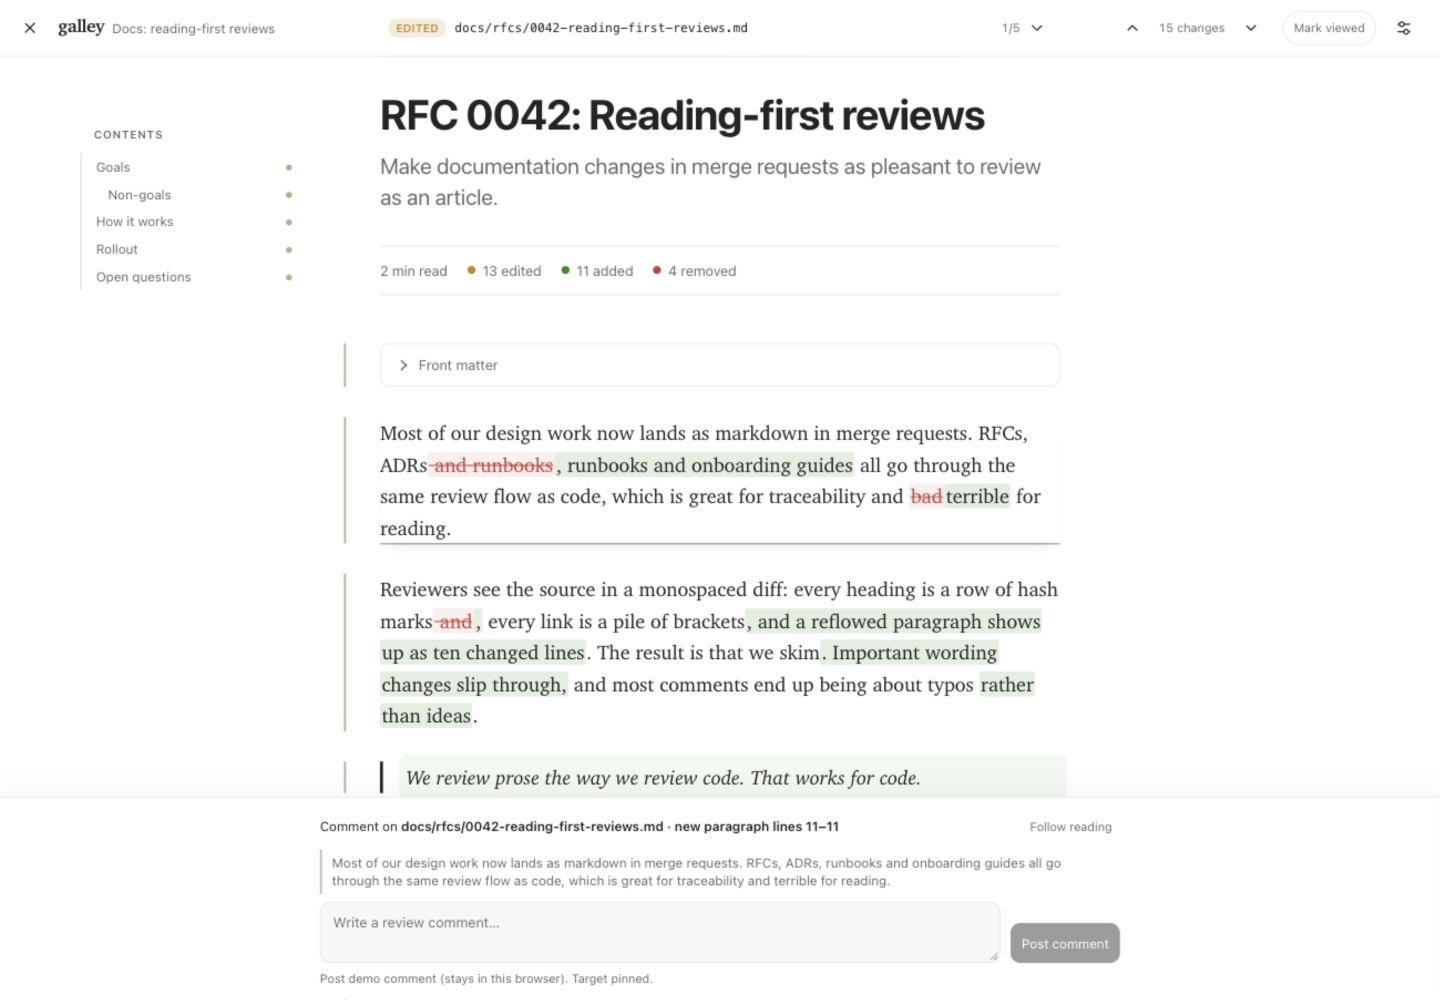
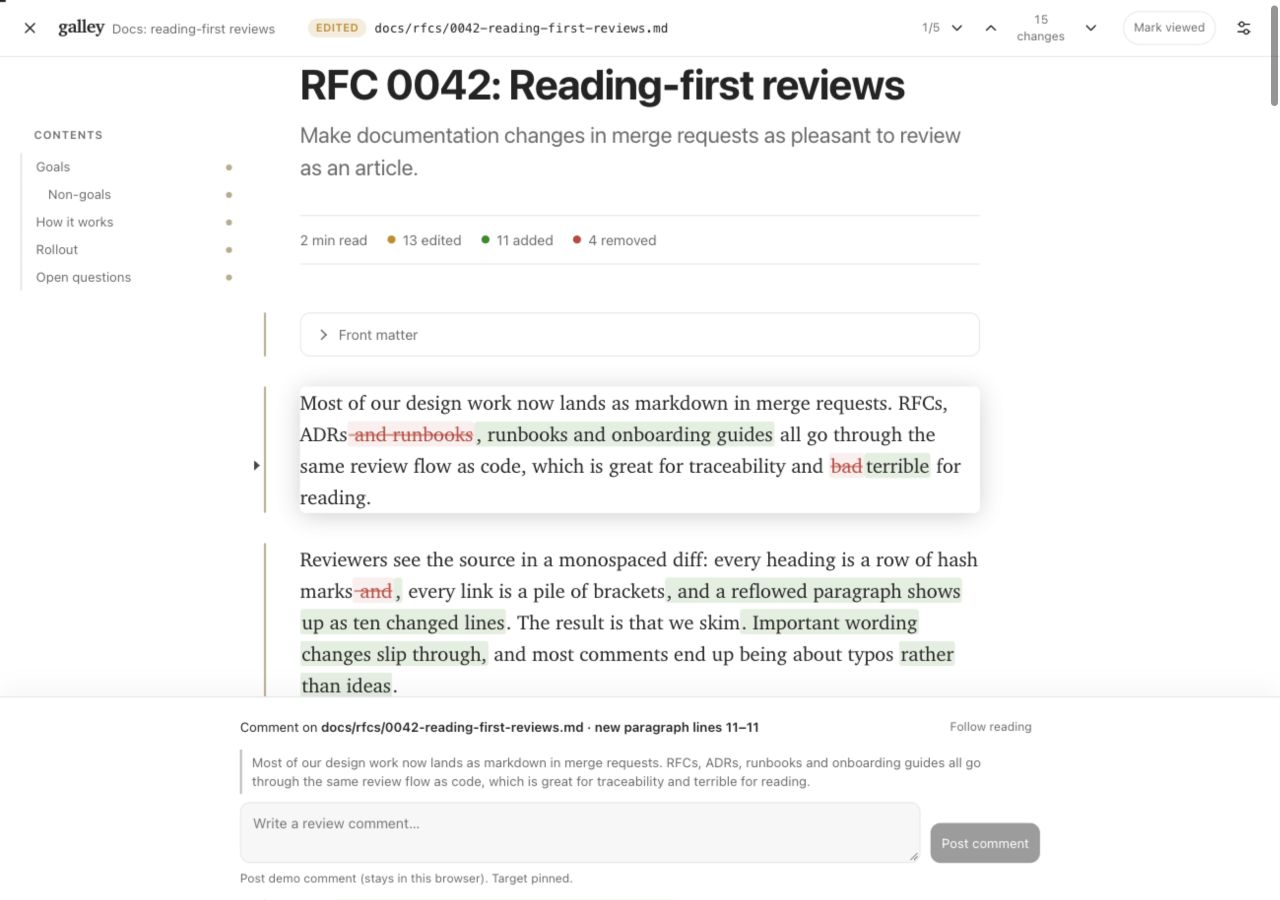
Use soft reading shadows and pin the selected line in the gutter

diff --git a/src/ui/reader.ts b/src/ui/reader.ts
@@ -169,6 +169,8 @@ class Reader {
   private drawerFocus: HTMLElement | null = null;
   private target: CommentTarget | null = null;
   private targetEls: HTMLElement[] = [];
+  private readonly readingMarker = h('div', 'mr-reading-marker');
+  private readingPoint: { element: HTMLElement; fraction: number } | null = null;
   private pinned = false;
   private plan: CommentPlan | null = null;
   private planToken = 0;
@@ -853,14 +855,14 @@ class Reader {
       .filter(({ block }) => block.el.getClientRects().length && block.el.getBoundingClientRect().bottom > 90 && block.el.getBoundingClientRect().top < this.root.clientHeight - this.el.composer.offsetHeight);
     const current = candidates.find(({ block }) => block.el.getBoundingClientRect().top <= line && block.el.getBoundingClientRect().bottom >= line)
       ?? candidates.reduce<typeof candidates[number] | undefined>((best, entry) => !best || Math.abs(entry.block.el.getBoundingClientRect().top - line) < Math.abs(best.block.el.getBoundingClientRect().top - line) ? entry : best, undefined);
-    if (current) this.setTarget(paragraphTarget(current.view.doc, current.block), [current.block.el]);
+    if (current) this.setTarget(paragraphTarget(current.view.doc, current.block), [current.block.el], line);
   }
 
   private captureSelection(event?: MouseEvent): void {
     if (event && !(event.target as Element).closest('.mr-content')) return;
     if (this.submitting || this.textarea.value || (event?.target as Element | undefined)?.closest('.mr-composer')) return;
     const selection = (this.shadow as ShadowRoot & { getSelection?: () => Selection | null }).getSelection?.() ?? document.getSelection();
-    if (selection && !selection.isCollapsed && selection.rangeCount) {
+    if (selection && !selection.isCollapsed && selection.rangeCount && (!event || selection.getRangeAt(0).intersectsNode(event.target as Node))) {
       const range = selection.getRangeAt(0);
       const view = this.views.find((view) => view.section.contains(range.startContainer) && view.section.contains(range.endContainer));
       const target = view?.rendered && selectionTarget(view.doc, view.rendered.blocks, range);
@@ -871,7 +873,9 @@ class Reader {
         return;
       }
       this.pinned = true;
-      this.setTarget(target, view.rendered.blocks.filter((block) => range.intersectsNode(block.el)).map((block) => block.el));
+      const elements = view.rendered.blocks.filter((block) => range.intersectsNode(block.el)).map((block) => block.el);
+      const rect = [...range.getClientRects()].find((rect) => rect.width && rect.height);
+      this.setTarget(target, elements, rect ? rect.top + rect.height / 2 : undefined);
     } else if (event) {
       const node = event.target as Node;
       const view = this.views.find((view) => view.section.contains(node));
@@ -879,13 +883,53 @@ class Reader {
       if (view && block && !(node as Element).closest('a, button, summary, input')) {
         const side = (node as Element).closest('del.mr-del, .mr-ghost-row, [data-mr-side="base"]') ? 'base' : block.head ? 'head' : 'base';
         this.pinned = true;
-        this.setTarget(paragraphTarget(view.doc, block, side), [block.el]);
+        const surface = (node as Element).closest<HTMLElement>('.mr-diagram-version') ?? block.el;
+        this.setTarget(paragraphTarget(view.doc, block, side), [surface], event.clientY);
       }
     }
   }
 
   private syncTargetCue(): void {
     this.root.classList.toggle('has-pinned-target', Boolean(this.target) && this.pinned);
+    this.paintReadingMarker();
+  }
+
+  /** Keep the cue on the clicked visual line while its paragraph scrolls. */
+  private setReadingPoint(elements: HTMLElement[], clientY?: number): void {
+    let element = elements.find((el) => {
+      const rect = el.getBoundingClientRect();
+      return clientY !== undefined && rect.top <= clientY && rect.bottom >= clientY;
+    }) ?? elements[0];
+    if (!element) { this.readingPoint = null; return; }
+    // A diagram is a visual surface; its captions must not pull the cue off the image.
+    element = [...element.querySelectorAll<HTMLElement>('.mr-diagram-view')].find((view) => {
+      const rect = view.getBoundingClientRect();
+      return clientY !== undefined && rect.top <= clientY && rect.bottom >= clientY;
+    }) ?? element;
+    const rect = element.getBoundingClientRect();
+    const y = this.readingLineCenter(element, clientY ?? rect.top + rect.height / 2);
+    this.readingPoint = { element, fraction: rect.height ? (y - rect.top) / rect.height : 0.5 };
+  }
+
+  private readingLineCenter(element: HTMLElement, clientY: number): number {
+    const range = document.createRange();
+    range.selectNodeContents(element);
+    const lineHeight = parseFloat(getComputedStyle(element).lineHeight) || 24;
+    const lines = [...range.getClientRects()].filter((rect) => rect.width > 0 && rect.height > 0 && rect.height <= lineHeight * 1.5);
+    const line = lines.reduce<DOMRect | undefined>((best, rect) => !best || Math.abs(rect.top + rect.height / 2 - clientY) < Math.abs(best.top + best.height / 2 - clientY) ? rect : best, undefined);
+    if (line) return line.top + line.height / 2;
+    const rect = element.getBoundingClientRect();
+    return Math.max(rect.top + Math.min(lineHeight, rect.height) / 2, Math.min(rect.bottom - Math.min(lineHeight, rect.height) / 2, clientY));
+  }
+
+  private paintReadingMarker(): void {
+    const point = this.readingPoint;
+    this.readingMarker.hidden = !point || !point.element.isConnected || Boolean(point.element.closest('[hidden]')) || !point.element.getClientRects().length;
+    if (!point || this.readingMarker.hidden) return;
+    const rect = point.element.getBoundingClientRect();
+    const y = this.readingLineCenter(point.element, rect.top + rect.height * point.fraction);
+    this.readingMarker.style.top = `${y - this.el.article.getBoundingClientRect().top}px`;
+    this.readingMarker.classList.toggle('is-pinned', this.pinned);
   }
 
   private clearTarget(): void {
@@ -894,15 +938,22 @@ class Reader {
     this.plan = null;
     for (const el of this.targetEls) el.classList.remove('mr-reading');
     this.targetEls = [];
+    this.readingPoint = null;
     this.syncTargetCue();
     this.el.commentTarget.textContent = 'a paragraph';
     this.el.commentQuote.hidden = true;
     this.updateSubmit();
   }
 
-  private setTarget(target: CommentTarget | null, elements: HTMLElement[]): void {
+  private setTarget(target: CommentTarget | null, elements: HTMLElement[], clientY?: number): void {
     if (!target) return;
     if (this.target?.doc === target.doc && this.target.side === target.side && this.target.startLine === target.startLine && this.target.endLine === target.endLine && this.target.quote === target.quote) {
+      if (elements.length !== this.targetEls.length || elements.some((el, i) => el !== this.targetEls[i])) {
+        for (const el of this.targetEls) el.classList.remove('mr-reading');
+        this.targetEls = elements;
+        for (const el of elements) el.classList.add('mr-reading');
+      }
+      this.setReadingPoint(elements, clientY);
       this.syncTargetCue();
       this.el.commentQuote.hidden = !this.pinned || !target.quote;
       if (this.plan) this.el.commentStatus.textContent = `${this.plan.label}. ${this.pinned ? 'Target pinned.' : 'Target follows your reading position.'}`;
@@ -911,6 +962,7 @@ class Reader {
     this.clearTarget();
     this.target = target;
     this.targetEls = elements;
+    this.setReadingPoint(elements, clientY);
     for (const el of elements) el.classList.add('mr-reading');
     this.syncTargetCue();
     this.el.commentTarget.textContent = `${target.side === 'base' ? target.doc.oldPath : target.doc.path} · ${target.side === 'base' ? 'old' : 'new'} ${target.doc.kind === 'code' ? 'source' : 'paragraph'} lines ${target.startLine}–${target.endLine}`;
@@ -998,6 +1050,7 @@ class Reader {
       else this.el.toc.replaceChildren();
     }
     this.guide();
+    this.paintReadingMarker();
 
     let activeHeading = -1;
     this.headings.forEach((hd, i) => {
@@ -1059,5 +1112,6 @@ class Reader {
       this.markTargets.push(s.point ? (nextVisible(s.target, s.target.closest('.mr-content')!) as HTMLElement) ?? s.target : s.target);
       gutter.append(mark);
     });
+    gutter.append(this.readingMarker);
   }
 }

diff --git a/src/ui/reader.css b/src/ui/reader.css
@@ -1203,17 +1203,33 @@
 .mr-root [hidden] { display: none !important; }
 .mr-main { padding-bottom: calc(var(--composer-height, 180px) + 110px); }
 .mr-document + .mr-document { margin-top: 90px; }
-/* A quiet baseline follows reading; a pinned comment gets a slightly firmer underline. */
-.mr-root .mr-content .mr-reading {
+/* A diffuse spotlight lifts the current block; the gutter locates its reading line. */
+.mr-root .mr-content .mr-reading:not(.mr-tight),
+.mr-root .mr-content li:has(> .mr-reading.mr-tight) {
   --reading-wash: 0 0 0 0 transparent;
-  box-shadow: var(--reading-wash), 0 1px 0 color-mix(in srgb, var(--fg) 20%, transparent), 0 7px 12px -12px color-mix(in srgb, var(--fg) 24%, transparent);
+  box-shadow: var(--reading-wash), 0 4px 22px -5px color-mix(in srgb, var(--fg) 12%, transparent), 0 0 18px 4px color-mix(in srgb, var(--fg) 4%, transparent);
+  border-radius: 6px;
   transition: box-shadow 160ms ease;
 }
-.has-pinned-target .mr-content .mr-reading {
-  box-shadow: var(--reading-wash), 0 1px 0 color-mix(in srgb, var(--fg) 38%, transparent), 0 8px 14px -12px color-mix(in srgb, var(--fg) 30%, transparent);
+.has-pinned-target .mr-content .mr-reading:not(.mr-tight),
+.has-pinned-target .mr-content li:has(> .mr-reading.mr-tight) {
+  box-shadow: var(--reading-wash), 0 5px 24px -5px color-mix(in srgb, var(--fg) 18%, transparent), 0 0 20px 4px color-mix(in srgb, var(--fg) 6%, transparent);
 }
 .mode-changes .mr-content [data-mr-change="added"].mr-reading { --reading-wash: 0 0 0 0.35em var(--add-wash); }
 .mode-changes .mr-content .mr-ghost.mr-reading { --reading-wash: 0 0 0 0.35em var(--del-bg); }
+.mr-reading-marker {
+  position: absolute;
+  left: -10px;
+  width: 6px;
+  height: 10px;
+  transform: translateY(-50%);
+  clip-path: polygon(0 0, 100% 50%, 0 100%);
+  background: var(--muted);
+  opacity: 0.65;
+  pointer-events: none;
+}
+.mr-reading-marker.is-pinned { background: var(--fg); opacity: 0.85; }
+@media (max-width: 760px) { .mr-reading-marker { left: 4px; width: 4px; height: 8px; } }
 .mr-empty-changes { color: var(--muted); font-size: 15px; }
 .mr-comment-receipt { font-family: var(--sans); font-size: 12px; color: var(--accent); }
 .mr-comment-receipt a { color: inherit; }
@@ -1375,8 +1391,7 @@
 .mr-code-line[data-mr-change="added"] { background: var(--add-wash); }
 .mr-code-line[data-mr-change="removed"] { background: var(--del-bg); color: var(--del); }
 .mr-content .mr-code-line.mr-ghost { margin: 0; padding-top: 0; padding-bottom: 0; border: 0; text-decoration: none; }
-.mr-content .mr-code-line.mr-reading { box-shadow: inset 0 -1px 0 color-mix(in srgb, var(--fg) 25%, transparent); }
-.has-pinned-target .mr-content .mr-code-line.mr-reading { box-shadow: inset 0 -1px 0 color-mix(in srgb, var(--fg) 42%, transparent); }
+.mr-root .mr-content .mr-code-line.mr-reading { border-radius: 0; }
 .mr-code-lines .mr-context-gap { padding: 0 12px; }
 .mode-clean .mr-code-line[data-mr-change="added"] { background: transparent; }
 @media (max-width: 760px) { .mr-code-lines { width: 100%; } .mr-code-line { grid-template-columns: 32px 32px 18px minmax(0, 1fr); font-size: 12px; } }

diff --git a/README.md b/README.md
@@ -16,7 +16,7 @@ RFCs, ADRs, runbooks and guides are reviewed in the same monospaced diff as code
 | --- | --- |
 | ![Table and paragraph edits](store/assets/screenshot-3-tables.jpg) | ![Clean mode in the dark theme](store/assets/screenshot-4-clean-dark.jpg) |
 
-The reader opens all changed documents in one continuous stream, showing changed paragraphs by default. Each hidden stretch has an arrow control to expand or collapse nearby unchanged content; **Entire files** restores every paragraph. A subtle neutral underline follows your reading position and becomes slightly firmer when a comment target is pinned. Click a paragraph or select a phrase to pin a comment target, then write in the bottom composer and post an ordinary GitHub or GitLab review comment.
+The reader opens all changed documents in one continuous stream, showing changed paragraphs by default. Each hidden stretch has an arrow control to expand or collapse nearby unchanged content; **Entire files** restores every paragraph. A soft shadow follows the current paragraph, with a small neutral pointer in the change gutter marking the reading line. Clicking or selecting text pins the pointer to that line. Click a paragraph or select a phrase to pin a comment target, then write in the bottom composer and post an ordinary GitHub or GitLab review comment.
 
 ## Try it
 
